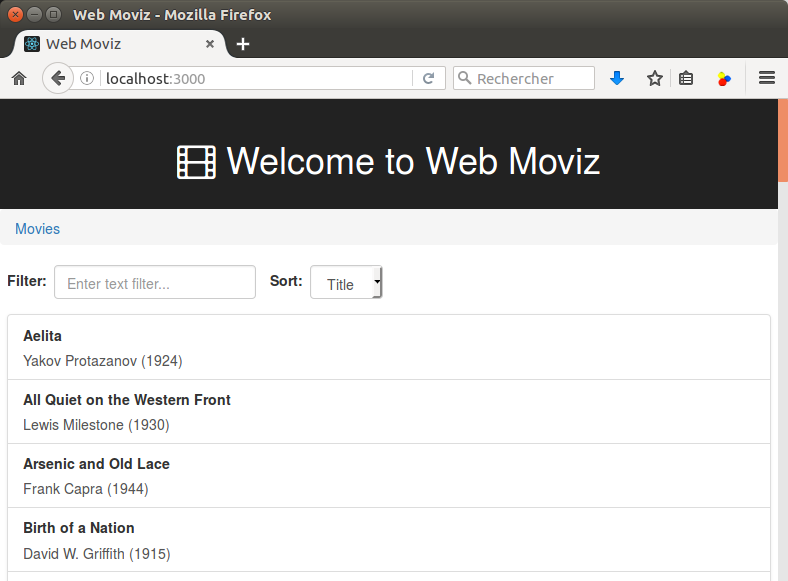
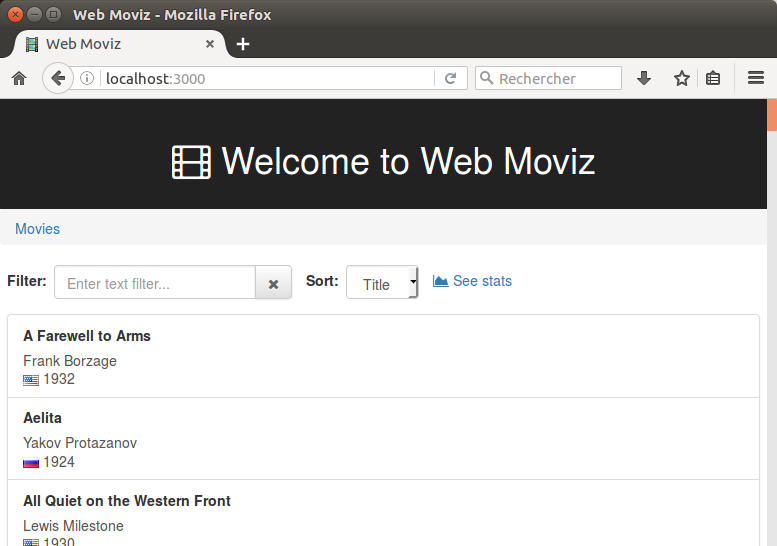
Updated screenshots

diff --git a/README.md b/README.md
@@ -10,6 +10,8 @@ It was bootstrapped with [Create React App](https://github.com/facebookincubator
 
 ![Movie details](/screen2.png)
 
+![Movies stats](/screen3.png)
+
 ## Installation & use
 
 ```
